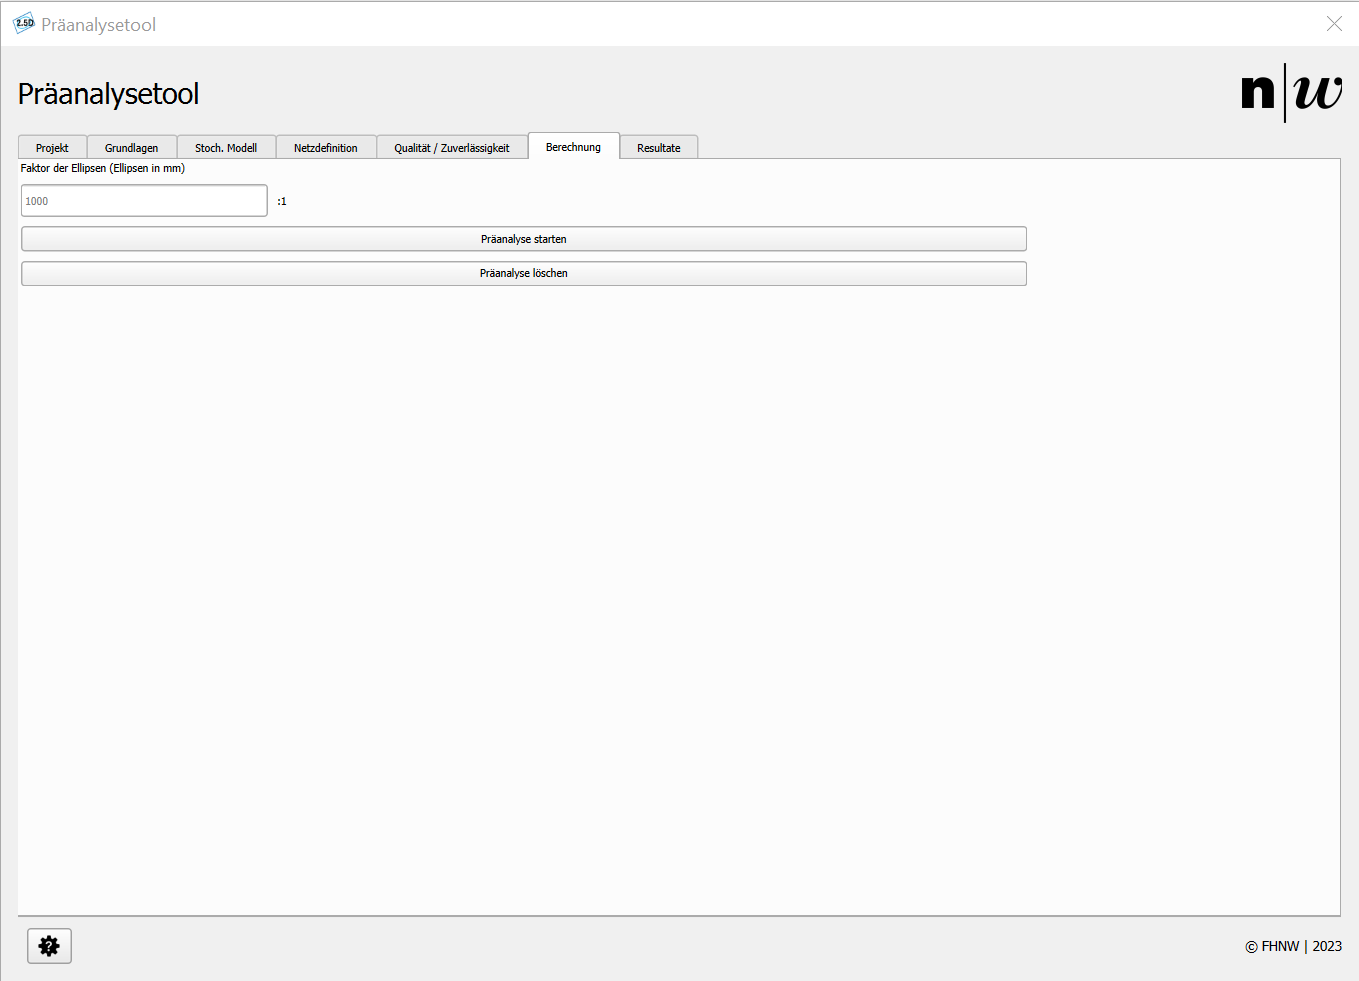
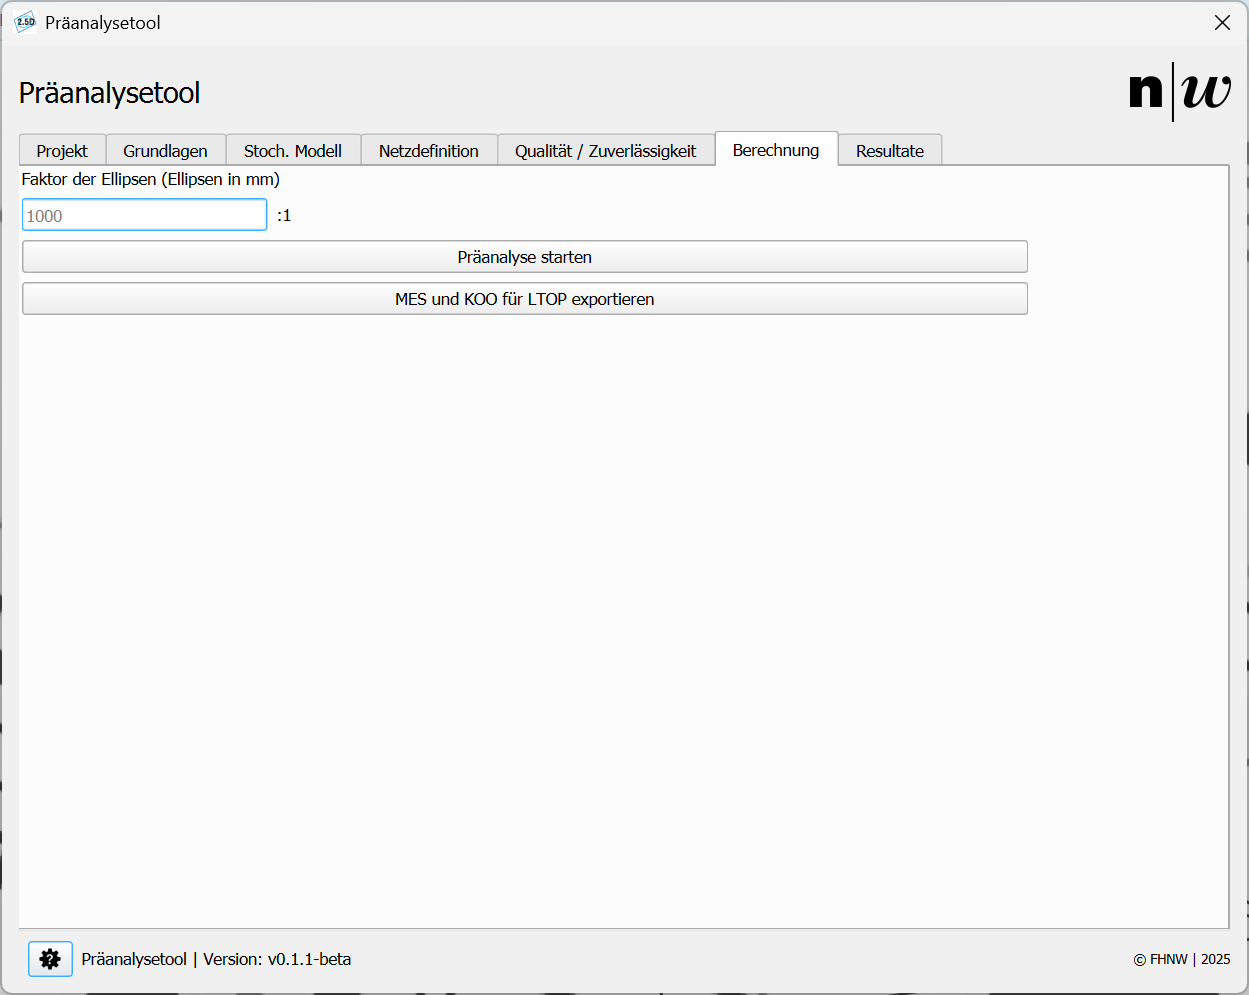
export to ltop

Changed region(s): [[0.0, 0.0, 1.0, 1.0], [0.0, 0.9174, 0.281, 1.0], [0.0, 0.0, 0.1249, 0.0306]]

diff --git a/docs/calc.md b/docs/calc.md
@@ -14,3 +14,15 @@ Mit Klick auf den Knopf ```Präanalyse starten``` wird die Berechnung durchgefü
 Bevor die Berechnung gestartet wird, prüft das Programm die Netzkonfiguration. Falls Fehler vorliegen, werden diese in einem Pop-up-Fenster angezeigt. Nach der Validierung der allgemeinen Netzgeometrie erfolgt eine spezifische Validierung für die Lageausgleichung. Ein Fehler in dieser Prüfung führt nicht zwingend zum Abbruch der Berechnung, da möglicherweise die Höhenberechnung dennoch durchgeführt werden kann. Anschliessend wird die Netzgeometrie für die Höhenberechnung geprüft. Auch hier gilt: Falls Fehler auftreten, werden diese als Pop-up angezeigt, und die Lageberechnung kann gegebenenfalls trotzdem erfolgen.
 
 Nach erfolgreichem Abschluss der Berechnungen erscheint eine Meldung, die den Erfolg bestätigt. Die Resultate werden nun im Plugin im Register ```Resultate``` sowie in der QGIS-Zeichenoberfläche als Layer dargestellt. Zudem ist das Berechnungsprotokoll als HTML-Datei im Ordner ```results``` gespeichert, wie im Abschnitt [Projekt eröffnen](../open_project) beschrieben.
+
+---
+
+## MES und KOO für LTOP exportieren
+
+Ein Klick auf den Knopf ```MES und KOO für LTOP exportieren``` schreibt die Netzdefinition (.mes) und Näherungskoordinaten (.koo) für die Weiterverwendung mit LTOP. Die Richtigkeit der exportierten Dateien wurde mit der Software GeoSuite, Version 1.6.5031 getestet.
+
+Die exportierten Dateien finden Sie im Ordner der verwendeten Version mit den Namen ```VERSION.mes``` und ```VERSION.koo```.
+
+Beispiel-Ordner für ein Projekt mit dem Name *Praeanalyse* und der Version *Version1*:
+- ```...\Praeanalyse\Version1\1.mes```
+- ```...\Praeanalyse\Version1\1.koo```
